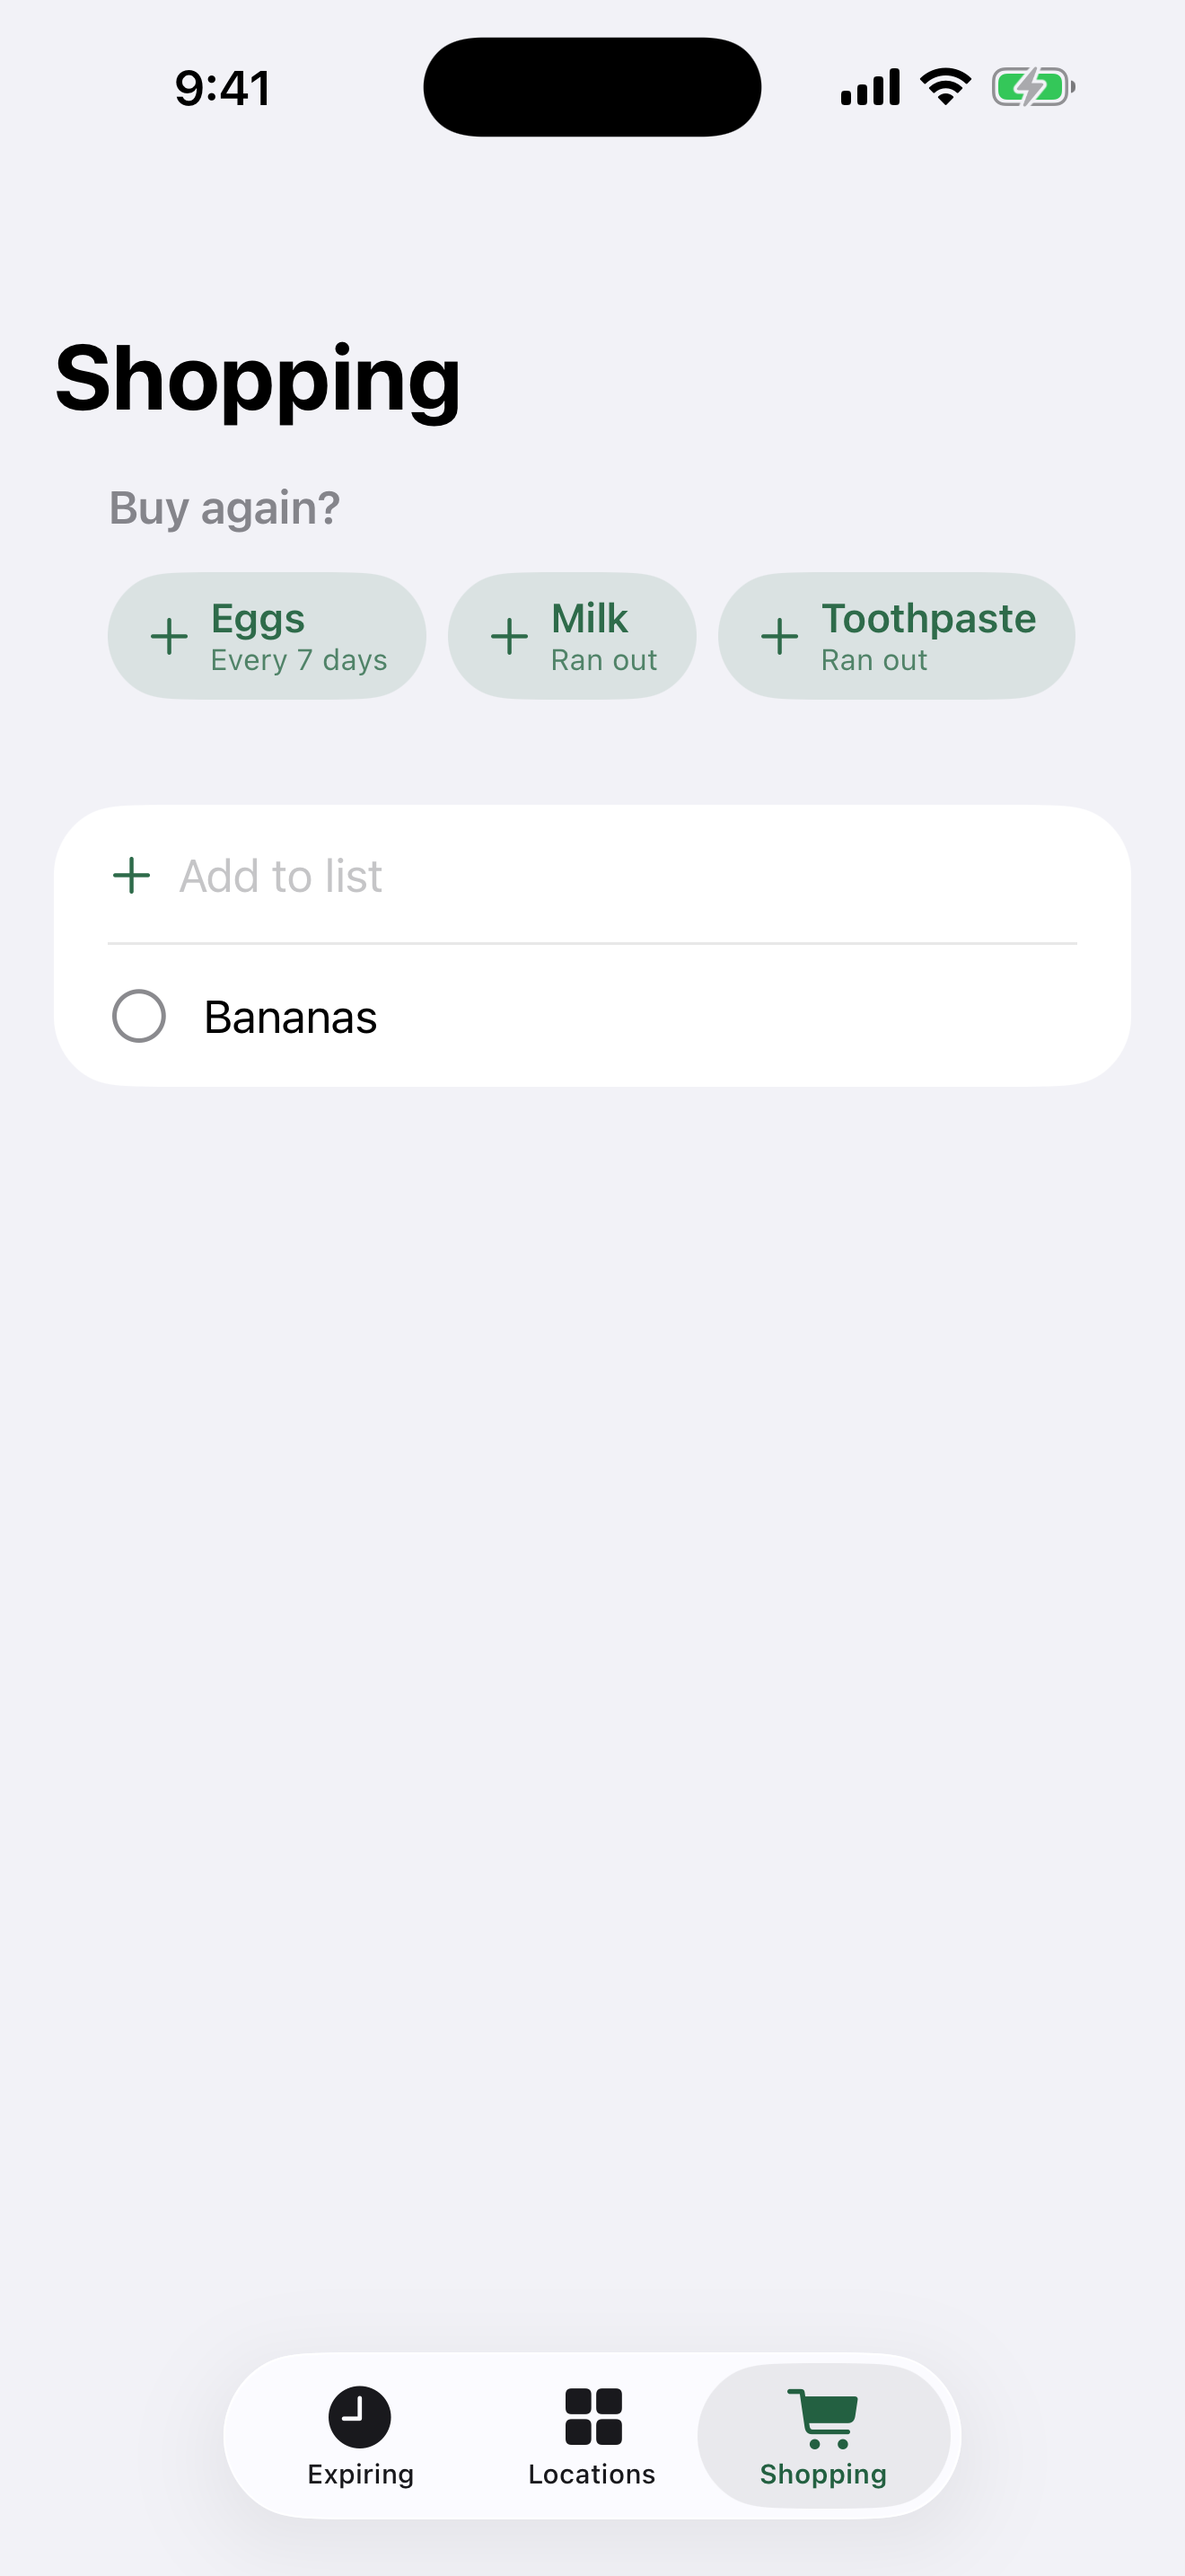
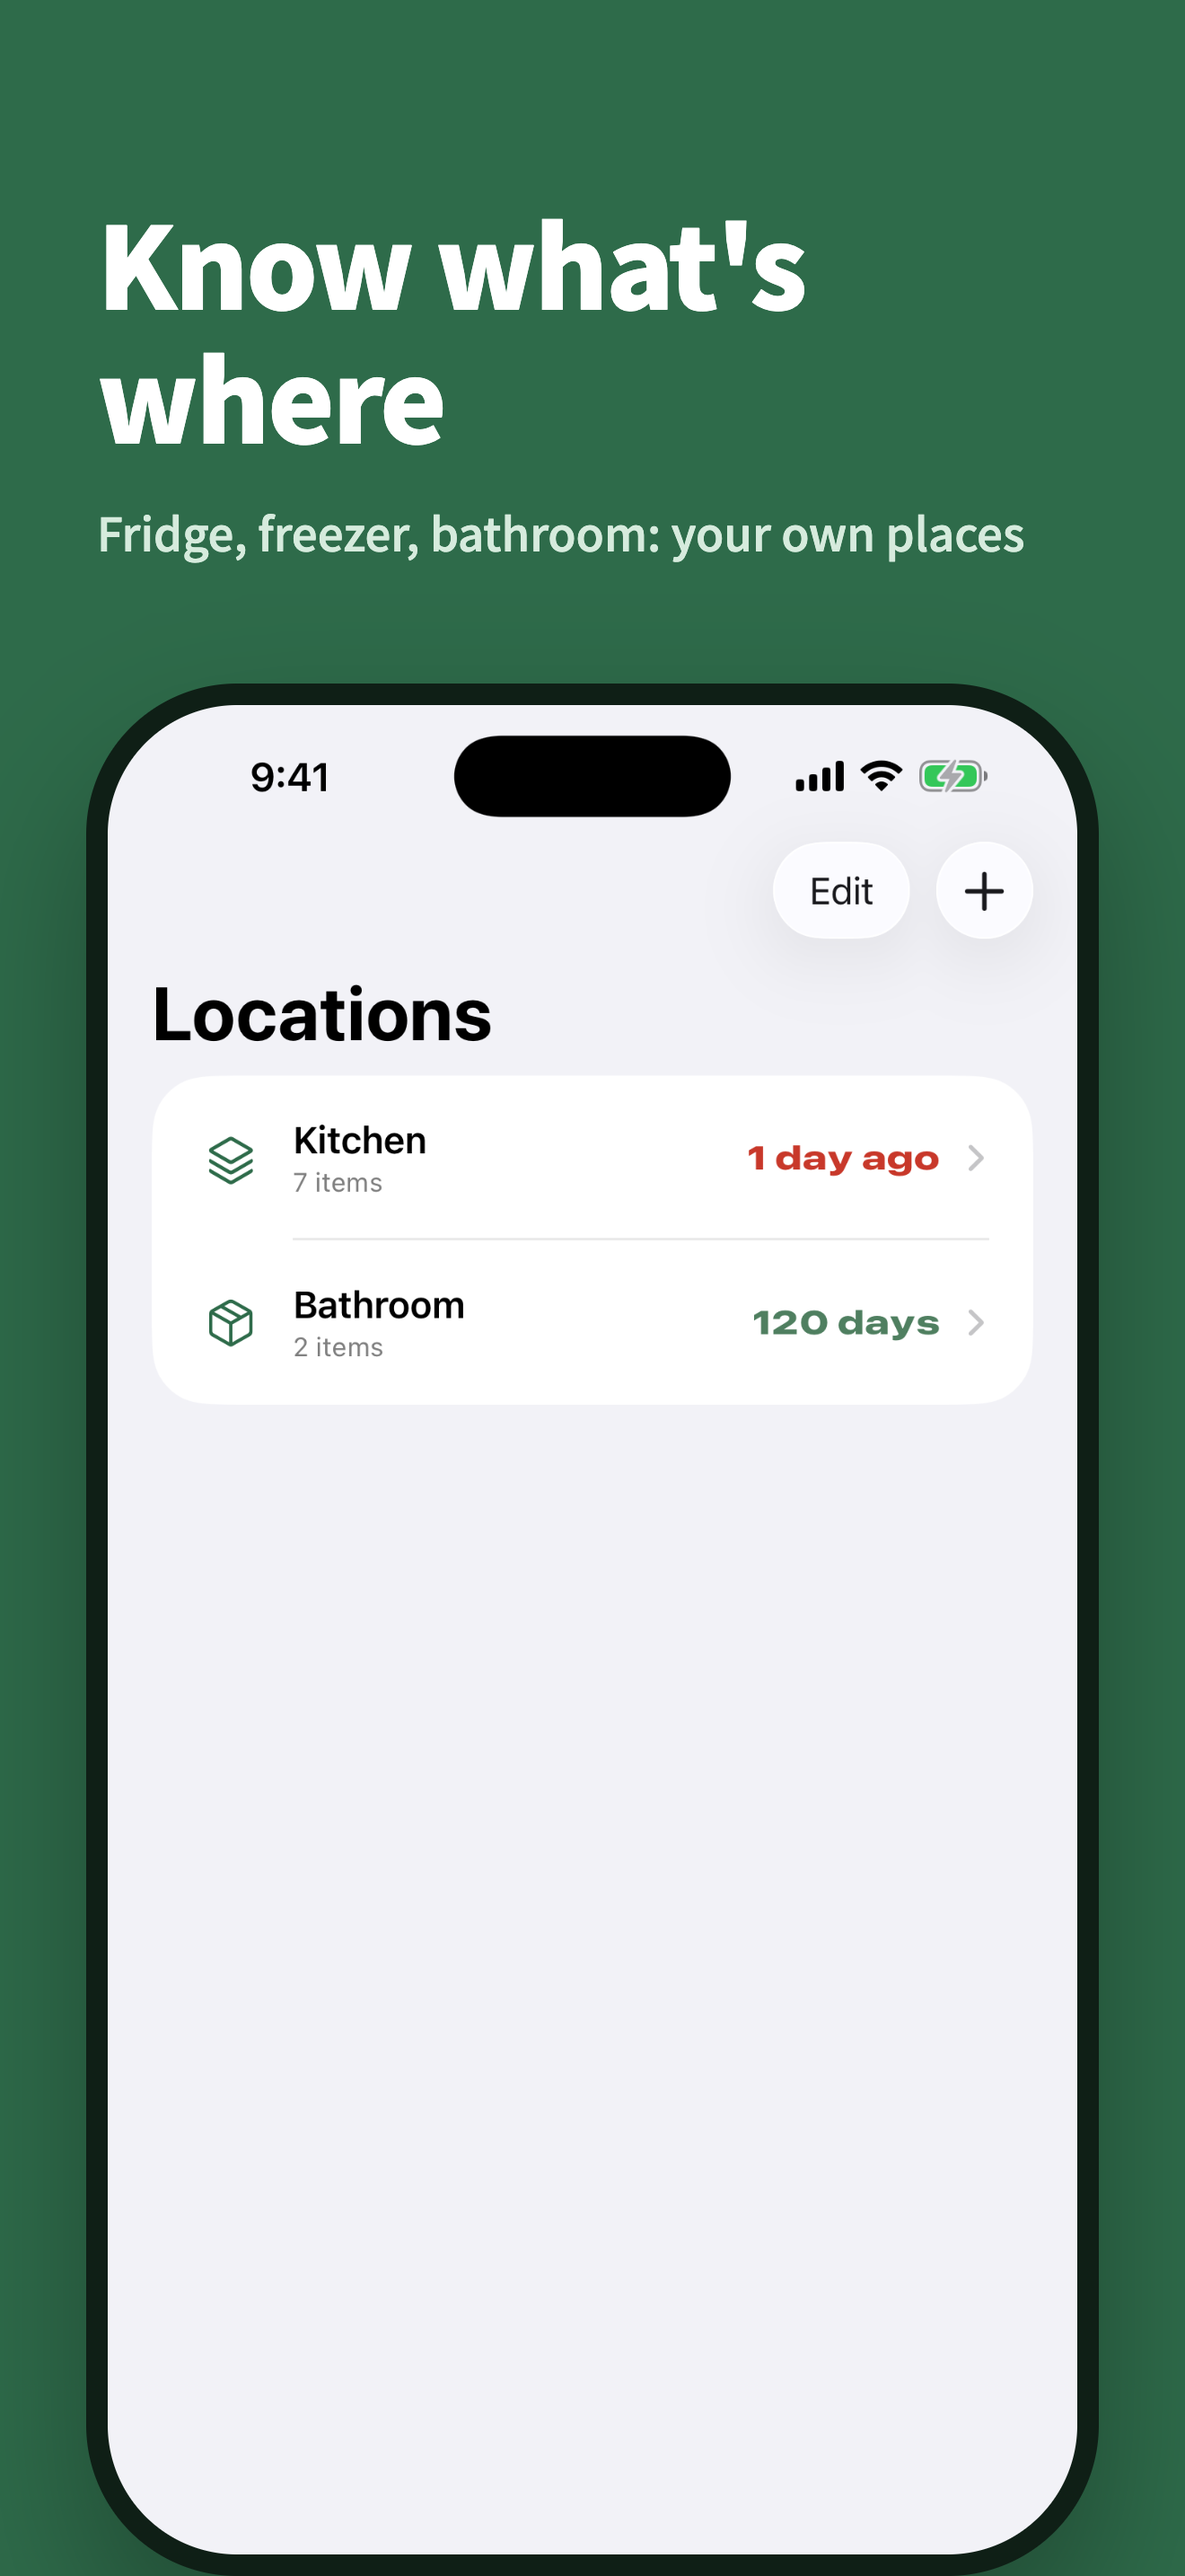
Store screenshots: green caption frame in Korean and English, rendered from simulator captures

diff --git a/design/screenshots.html b/design/screenshots.html
@@ -1,0 +1,37 @@
+<!doctype html>
+<!-- App Store screenshot frame. Open as screenshots.html#ko-0 … #en-2; render with design/screenshots.sh. -->
+<html>
+<head>
+<meta charset="utf-8">
+<link href="https://fonts.googleapis.com/css2?family=Noto+Sans+KR:wght@500;900&display=swap" rel="stylesheet">
+<style>
+body { margin: 0; }
+.frame { width: 440px; height: 956px; box-sizing: border-box; overflow: hidden; background: #2E6B4A; font-family: 'Noto Sans KR', sans-serif; color: #fff; display: flex; flex-direction: column; padding-top: 72px; gap: 44px; }
+.copy { display: flex; flex-direction: column; gap: 14px; padding: 0 36px; }
+h1 { margin: 0; font-size: 42px; line-height: 1.18; font-weight: 900; letter-spacing: -1px; white-space: pre-line; }
+p { margin: 0; font-size: 17px; font-weight: 500; color: #D6EBDD; }
+.phone { width: 360px; align-self: center; border-radius: 56px; border: 8px solid #0F1F16; overflow: hidden; background: #0F1F16; box-shadow: 0 28px 56px rgba(0,0,0,0.3); }
+.phone img { display: block; width: 100%; border-radius: 48px; }
+</style>
+</head>
+<body>
+<div class="frame">
+  <div class="copy"><h1 id="title"></h1><p id="sub"></p></div>
+  <div class="phone"><img id="shot" alt=""></div>
+</div>
+<script>
+const copy = {
+  ko: [["곧 상할 것부터\n한눈에", "기한이 가까운 순서로 알아서 정리돼요"],
+       ["냉장고, 욕실\n어디에 뭐가 있는지", "우리 집 구조대로 장소를 나눠요"],
+       ["다 쓴 건 알아서\n장보기 목록에", "자주 사는 주기도 기억해요"]],
+  en: [["See what expires\nfirst", "Everything sorted by how soon it goes off"],
+       ["Know what's\nwhere", "Fridge, freezer, bathroom: your own places"],
+       ["Used it up?\nIt's on the list", "Keepsy remembers how often you buy things"]],
+};
+const [lang, index] = location.hash.slice(1).split("-");
+document.documentElement.lang = lang;
+[title.textContent, sub.textContent] = copy[lang][index];
+shot.src = `screens/${lang}-${index}.png`;
+</script>
+</body>
+</html>

diff --git a/README.md b/README.md
@@ -32,6 +32,7 @@ xcrun devicectl device install app --device <identifier> build/Build/Products/De
 - `design/AppIcon.svg`: app icon source
 - `docs/`: privacy policy, published with GitHub Pages
 - `store/AppStore.md`: App Store listing drafts
+- `store/screenshots/`: App Store screenshots, rendered by `design/screenshots.sh` from simulator captures in `design/screens/`
 
 ## 진행 상황 (2026-10-23)
 
@@ -47,13 +48,14 @@ xcrun devicectl device install app --device <identifier> build/Build/Products/De
 - iCloud 동기화(개인 DB), 기기별 기본 장소 중복 자동 정리.
 - "곧 만료" 위젯(작게/중간).
 - 가족 공유(집 전체, 모두 수정 가능, 수락하면 내 기록이 합쳐짐).
+- 스토어 스크린샷 6.9" 한국어·영어 3장씩(`design/screenshots.sh`로 다시 만듦).
 - 테스트 30개 통과.
 - 유료 개발자 계정(팀 `4CAH5282L3`, 문의 dev.noahchoi@gmail.com). Debug 빌드를 개인 iPhone 16 Pro에 설치함(2026-10-23).
 
 **남은 일**
 - CloudKit 스키마 Production 배포.
 - 두 Apple ID로 가족 초대·수락·나가기 실기기 확인.
-- 출시: 스크린샷, App Store Connect 등록, EU 비판매자 신고. 중국 제외 전 세계.
+- 출시: App Store Connect 등록, EU 비판매자 신고. 중국 제외 전 세계.
 - 설치한 iPhone에서 확인: 날짜 스캔, 길게 누르기 메뉴, 장보기·장소·설정 화면 터치, 위젯 추가, iCloud 동기화.
 
 자세한 기획과 작업 규칙은 `CLAUDE.md`에 있다.

diff --git a/CLAUDE.md b/CLAUDE.md
@@ -36,5 +36,5 @@
 ## 남은 일
 - 출시 전 CloudKit 대시보드에서 스키마를 Production에 배포.
 - 두 기기로 실제 동기화, 두 Apple ID로 초대·수락·나가기 확인 못 함.
-- 출시: 스크린샷, App Store Connect 등록, EU 판매자 여부(비판매자) 신고.
+- 출시: App Store Connect 등록, EU 판매자 여부(비판매자) 신고.
 - 확인 못 한 것: 실제 기기에서 날짜 스캔, 길게 누르기 메뉴·장보기·장소·설정 화면의 터치 동작.
